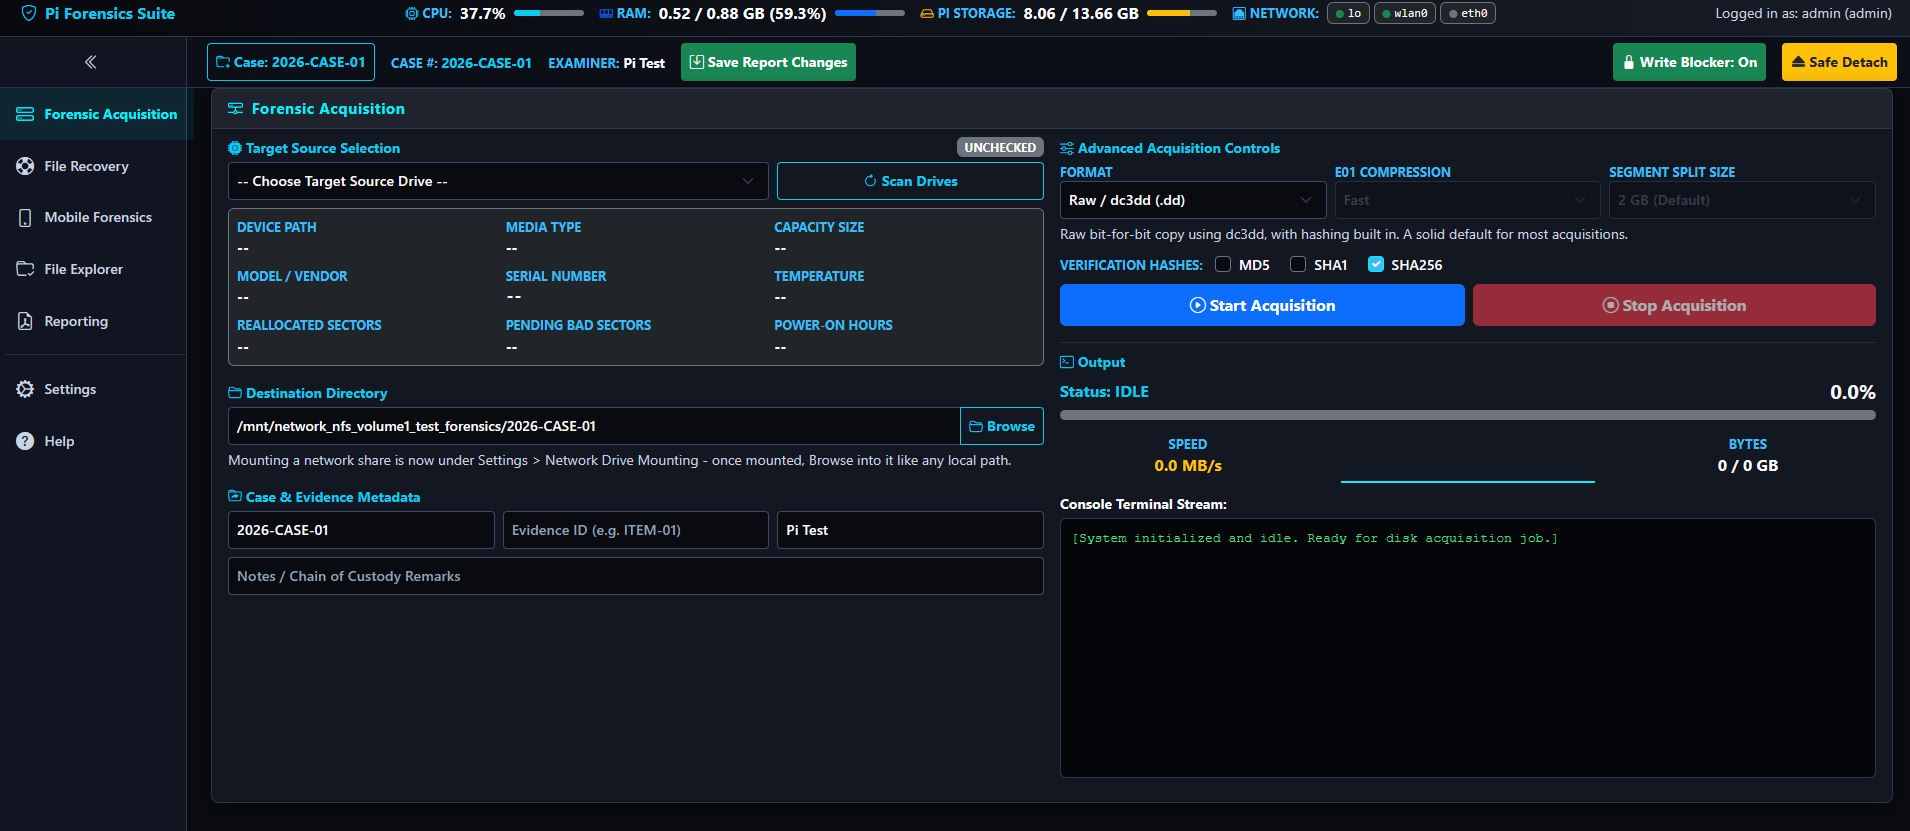
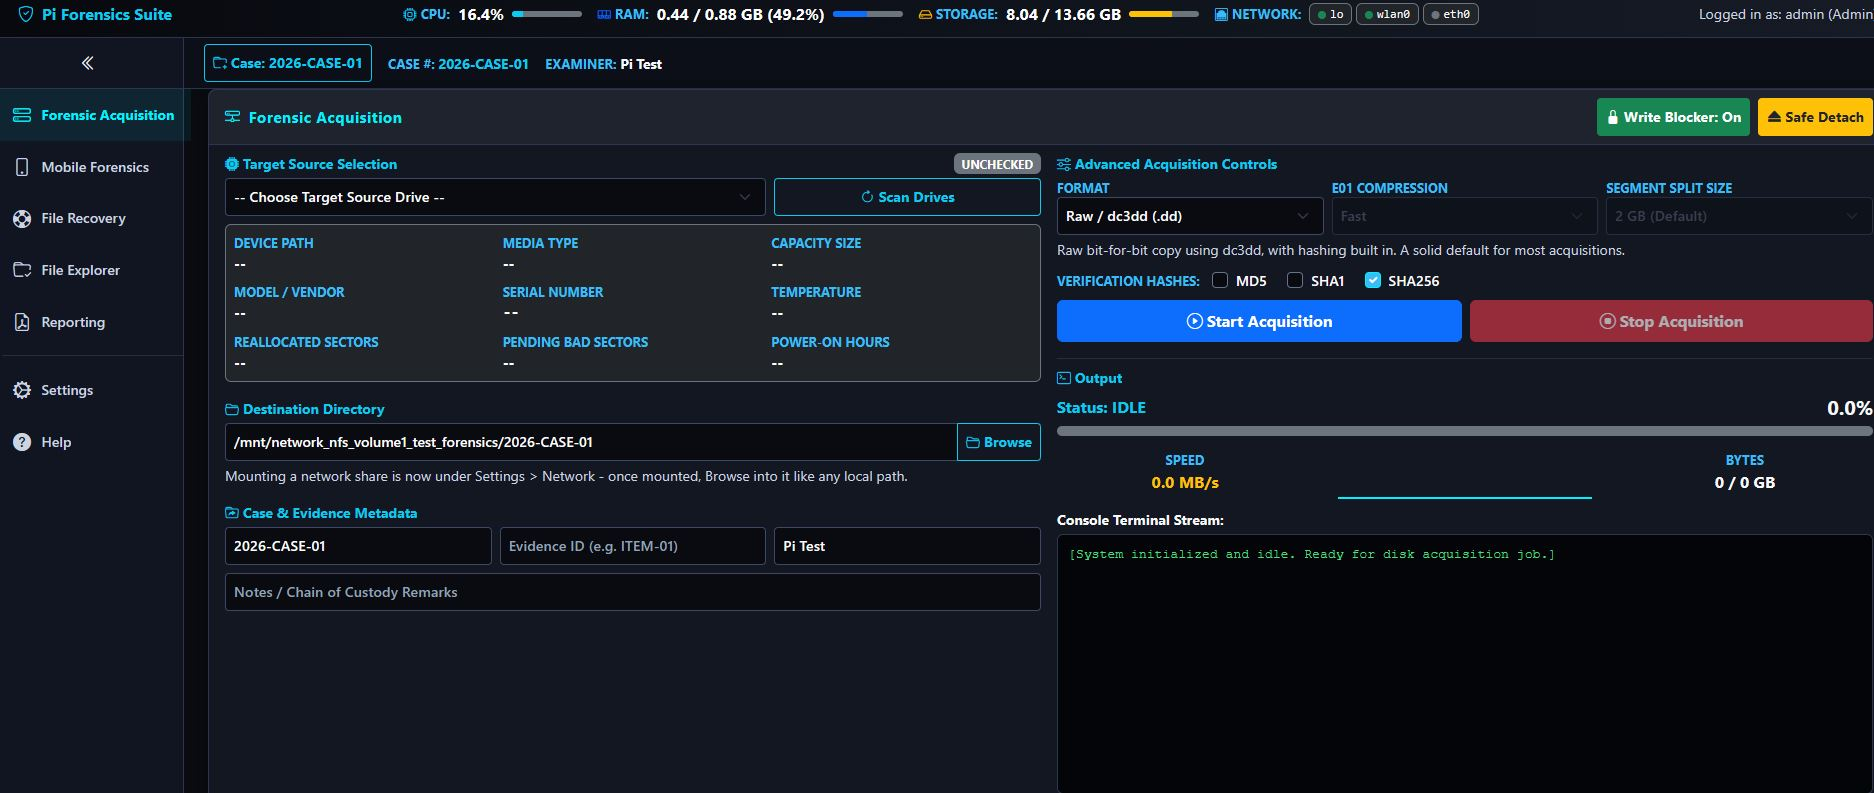
Add Service Controls and User Groups screenshots, refresh hero shot
New PIF10 (Settings > Service Controls & Diagnostics) and PIF11
(Settings > Security: User Accounts + User Groups) wired into README
and the website. Also swaps in an updated PIF1 hero screenshot.

diff --git a/docs/index.html b/docs/index.html
@@ -429,6 +429,14 @@
         <img src="images/PIF9.JPG" alt="File Explorer Metadata tab showing filesystem and ExifTool details">
         <figcaption><b>Metadata</b>Size, timestamps, permissions, and MIME type for any file, with ExifTool's embedded metadata layered below.</figcaption>
       </figure>
+      <figure class="shot">
+        <img src="images/PIF10.JPG" alt="Settings Service Controls and Diagnostics panel">
+        <figcaption><b>Service Controls</b>Restart, update, check tool versions, run a fixed diagnostics allowlist, reboot, or power off &mdash; no SSH required.</figcaption>
+      </figure>
+      <figure class="shot">
+        <img src="images/PIF11.JPG" alt="Settings User Accounts and User Groups panel">
+        <figcaption><b>User Groups</b>Real per-examiner accounts with role-based access control &mdash; Admin, an adjustable Analyst default, and custom groups built from any mix of permissions.</figcaption>
+      </figure>
     </div>
   </div>
 </section>

diff --git a/README.md b/README.md
@@ -157,6 +157,18 @@ for anything missing. All from a left-nav Settings screen, not a shell.
   <em>File Explorer's Metadata tab — real filesystem facts (size, extension, MIME type, timestamps, permissions, owner/group) for any file or folder, with ExifTool's embedded metadata layered below for files.</em>
 </p>
 
+<p align="center">
+  <img src="docs/images/PIF10.JPG" width="100%" alt="Service Controls & Diagnostics" />
+  <br>
+  <em>Settings — Service Controls & Diagnostics: restart the service, reload the kiosk, pull app/OS updates, check tool versions, run a fixed diagnostics allowlist, and reboot or power off the station.</em>
+</p>
+
+<p align="center">
+  <img src="docs/images/PIF11.JPG" width="100%" alt="User Accounts and User Groups" />
+  <br>
+  <em>Settings — Security: per-examiner accounts with Created/Last Login tracking, and User Groups for real role-based access control — Admin always has full access, Analyst is the adjustable default, and custom groups can be built from any mix of the 7 permission keys.</em>
+</p>
+
 ---
 
 ## 📋 Prerequisites, Setup & Usage
